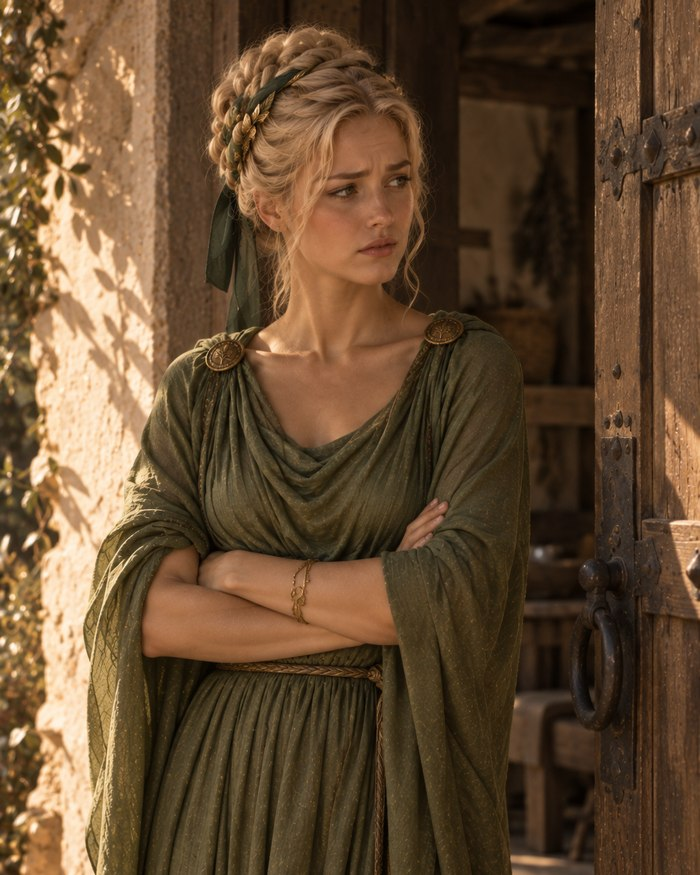
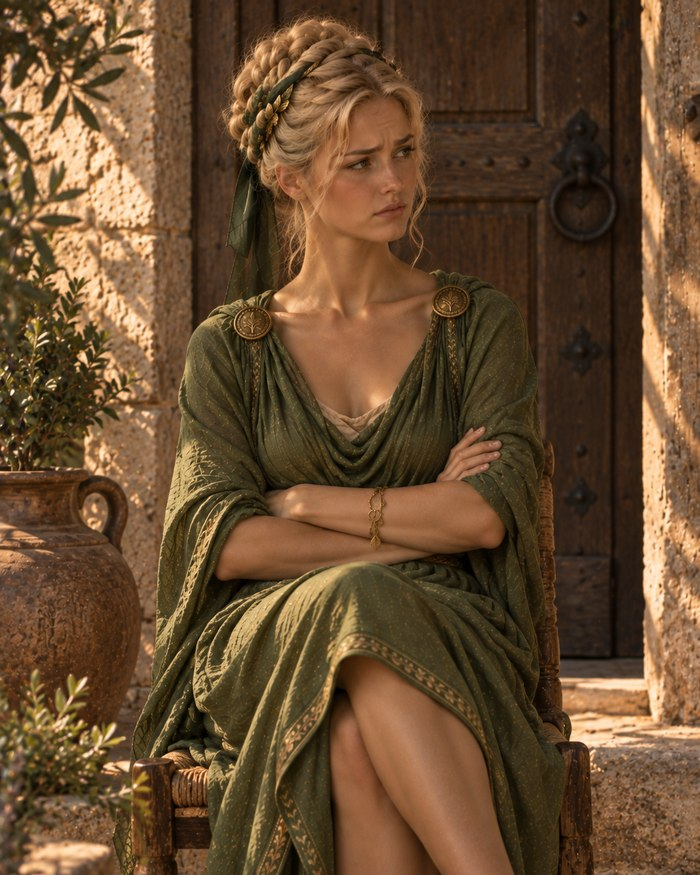
Remplace l'image du blocage de la naissance d'Héraclès (Ilithyie)
Retour direct de l'utilisatrice : nouvelle image, même emplacement sur
la fiche (juste avant le paragraphe qui raconte l'épisode). La nouvelle
version la montre assise, jambes ET bras croisés devant une porte —
correspond encore mieux au texte ("jambes et doigts croisés").

service-worker.js : pantheon-v115 → pantheon-v116.

Claude-Session: https://claude.ai/code/session_01RmV4NQeKHMug67uKaeW5hA

diff --git a/service-worker.js b/service-worker.js
@@ -1,4 +1,4 @@
-const CACHE="pantheon-v115";
+const CACHE="pantheon-v116";
 const ASSETS=["./","./index.html","./styles.css","./app.js","./manifest.json","./icon.svg","./icon-192.png","./icon-512.png","./icon-180.png","./politique-confidentialite.html","./assets/hero-olympians.jpg","./assets/badge-home-temple.webp","./assets/badge-figures-portrait.webp","./assets/badge-symbols-lyre.webp","./assets/badge-genealogy-mother.webp","./assets/badge-places-map.webp","./assets/badge-quiz-brain.webp","./assets/badge-quiz-debutant.webp","./assets/badge-quiz-sans-faute.webp","./assets/badge-quiz-terrain.webp","./assets/badge-quiz-intermediaire.webp","./assets/badge-quiz-polymathe.webp","./assets/badge-quiz-expert.webp","./assets/badge-quiz-contact.webp","./assets/home-olive-branch.webp","./assets/symbol-abeille.webp","./assets/symbol-aigle.webp","./assets/symbol-ailes.webp","./assets/symbol-air.webp","./assets/symbol-araignee.webp","./assets/symbol-arc.webp","./assets/symbol-arc-en-ciel.webp","./assets/symbol-aurore.webp","./assets/symbol-balance.webp","./assets/symbol-belier.webp","./assets/symbol-ble.webp","./assets/symbol-caduceus.webp","./assets/symbol-carrefour.webp","./assets/symbol-cerf.webp","./assets/symbol-chaine.webp","./assets/symbol-char.webp","./assets/symbol-char-solaire.webp","./assets/symbol-chemin.webp","./assets/symbol-chene.webp","./assets/symbol-cheval.webp","./assets/symbol-chevre.webp","./assets/symbol-chien.webp","./assets/symbol-chouette.webp","./assets/symbol-cle.webp","./assets/symbol-colombe.webp","./assets/symbol-corbeau.webp","./assets/symbol-couronne.webp","./assets/symbol-crabe.webp","./assets/symbol-cygne.webp","./assets/symbol-corne-abondance.webp","./assets/symbol-eau.webp","./assets/symbol-dauphin.webp","./assets/symbol-cypres.webp","./assets/symbol-egide.webp","./assets/symbol-eclair.webp","./assets/symbol-eclipse.webp","./assets/symbol-etoile.webp","./assets/symbol-feu.webp","./assets/symbol-figue.webp","./assets/symbol-fil.webp","./assets/symbol-fleche.webp","./assets/symbol-crocus.webp","./assets/symbol-narcisse-fleur.webp","./assets/symbol-flute.webp","./assets/symbol-foret.webp","./assets/symbol-graine.webp","./assets/symbol-grenade.webp","./assets/symbol-grotte.webp","./assets/symbol-labyrinthe.webp","./assets/symbol-lance.webp","./assets/symbol-lanterne.webp","./assets/symbol-foudre.webp","./assets/symbol-laurier.webp","./assets/symbol-lierre.webp","./assets/symbol-lion.webp","./assets/symbol-lotus.webp","./assets/symbol-lune.webp","./assets/symbol-lyre.webp","./assets/symbol-miroir.webp","./assets/symbol-myrte.webp","./assets/symbol-noix.webp","./assets/symbol-olive.webp","./assets/symbol-olivier.webp","./assets/symbol-ouroboros.webp","./assets/symbol-paon.webp","./assets/symbol-papillon.webp","./assets/symbol-pavot.webp","./assets/symbol-pegase.webp","./assets/symbol-poisson.webp","./assets/symbol-pomme.webp","./assets/symbol-pont.webp","./assets/symbol-porte.webp","./assets/symbol-raisin.webp","./assets/symbol-riviere.webp","./assets/symbol-rose.webp","./assets/symbol-roue.webp","./assets/symbol-sanglier.webp","./assets/symbol-sceptre.webp","./assets/symbol-scorpion.webp","./assets/symbol-serpent.webp","./assets/symbol-soleil.webp","./assets/symbol-taureau.webp","./assets/symbol-temple.webp","./assets/symbol-terre.webp","./assets/symbol-torche.webp","./assets/symbol-torches.webp","./assets/symbol-trident.webp","./assets/symbol-vigne.webp","./assets/symbol-voile.webp","./assets/map-icon-sanctuaire.webp","./assets/map-icon-montagne.webp","./assets/map-icon-cite.webp","./assets/map-icon-ile.webp","./assets/map-icon-detroit.webp","./assets/map-icon-source.webp","./assets/map-icon-souterrain.webp"];
 
 self.addEventListener("install",event=>{

diff --git a/README.md b/README.md
@@ -3832,3 +3832,16 @@ sans doublon), fiches de Maïa/Eurynomé/Hermès/Charites contrôlées individue
 enfants, liens cliquables), rendu visuel confirmé.
 
 `service-worker.js` (Panthéon) : `pantheon-v114` → `pantheon-v115`.
+
+## Remplace l'image du blocage de la naissance d'Héraclès (Ilithyie)
+
+Retour direct de l'utilisatrice : nouvelle image pour remplacer `assets/deity-ilithyie-heracles.jpg`
+sur la fiche d'Ilithyie — même emplacement (juste avant le paragraphe qui raconte l'épisode),
+seul le fichier change. La nouvelle version la montre assise, jambes ET bras croisés devant une
+porte, une correspondance encore plus directe avec le texte (« s'asseoir devant la porte
+d'Alcmène, jambes et doigts croisés ») que la précédente.
+
+Testé (2665 vérifications, inchangées — remplacement d'asset seul, aucun code touché) : rendu
+contrôlé visuellement en clair et en sombre, image bien à sa place.
+
+`service-worker.js` (Panthéon) : `pantheon-v115` → `pantheon-v116`.
